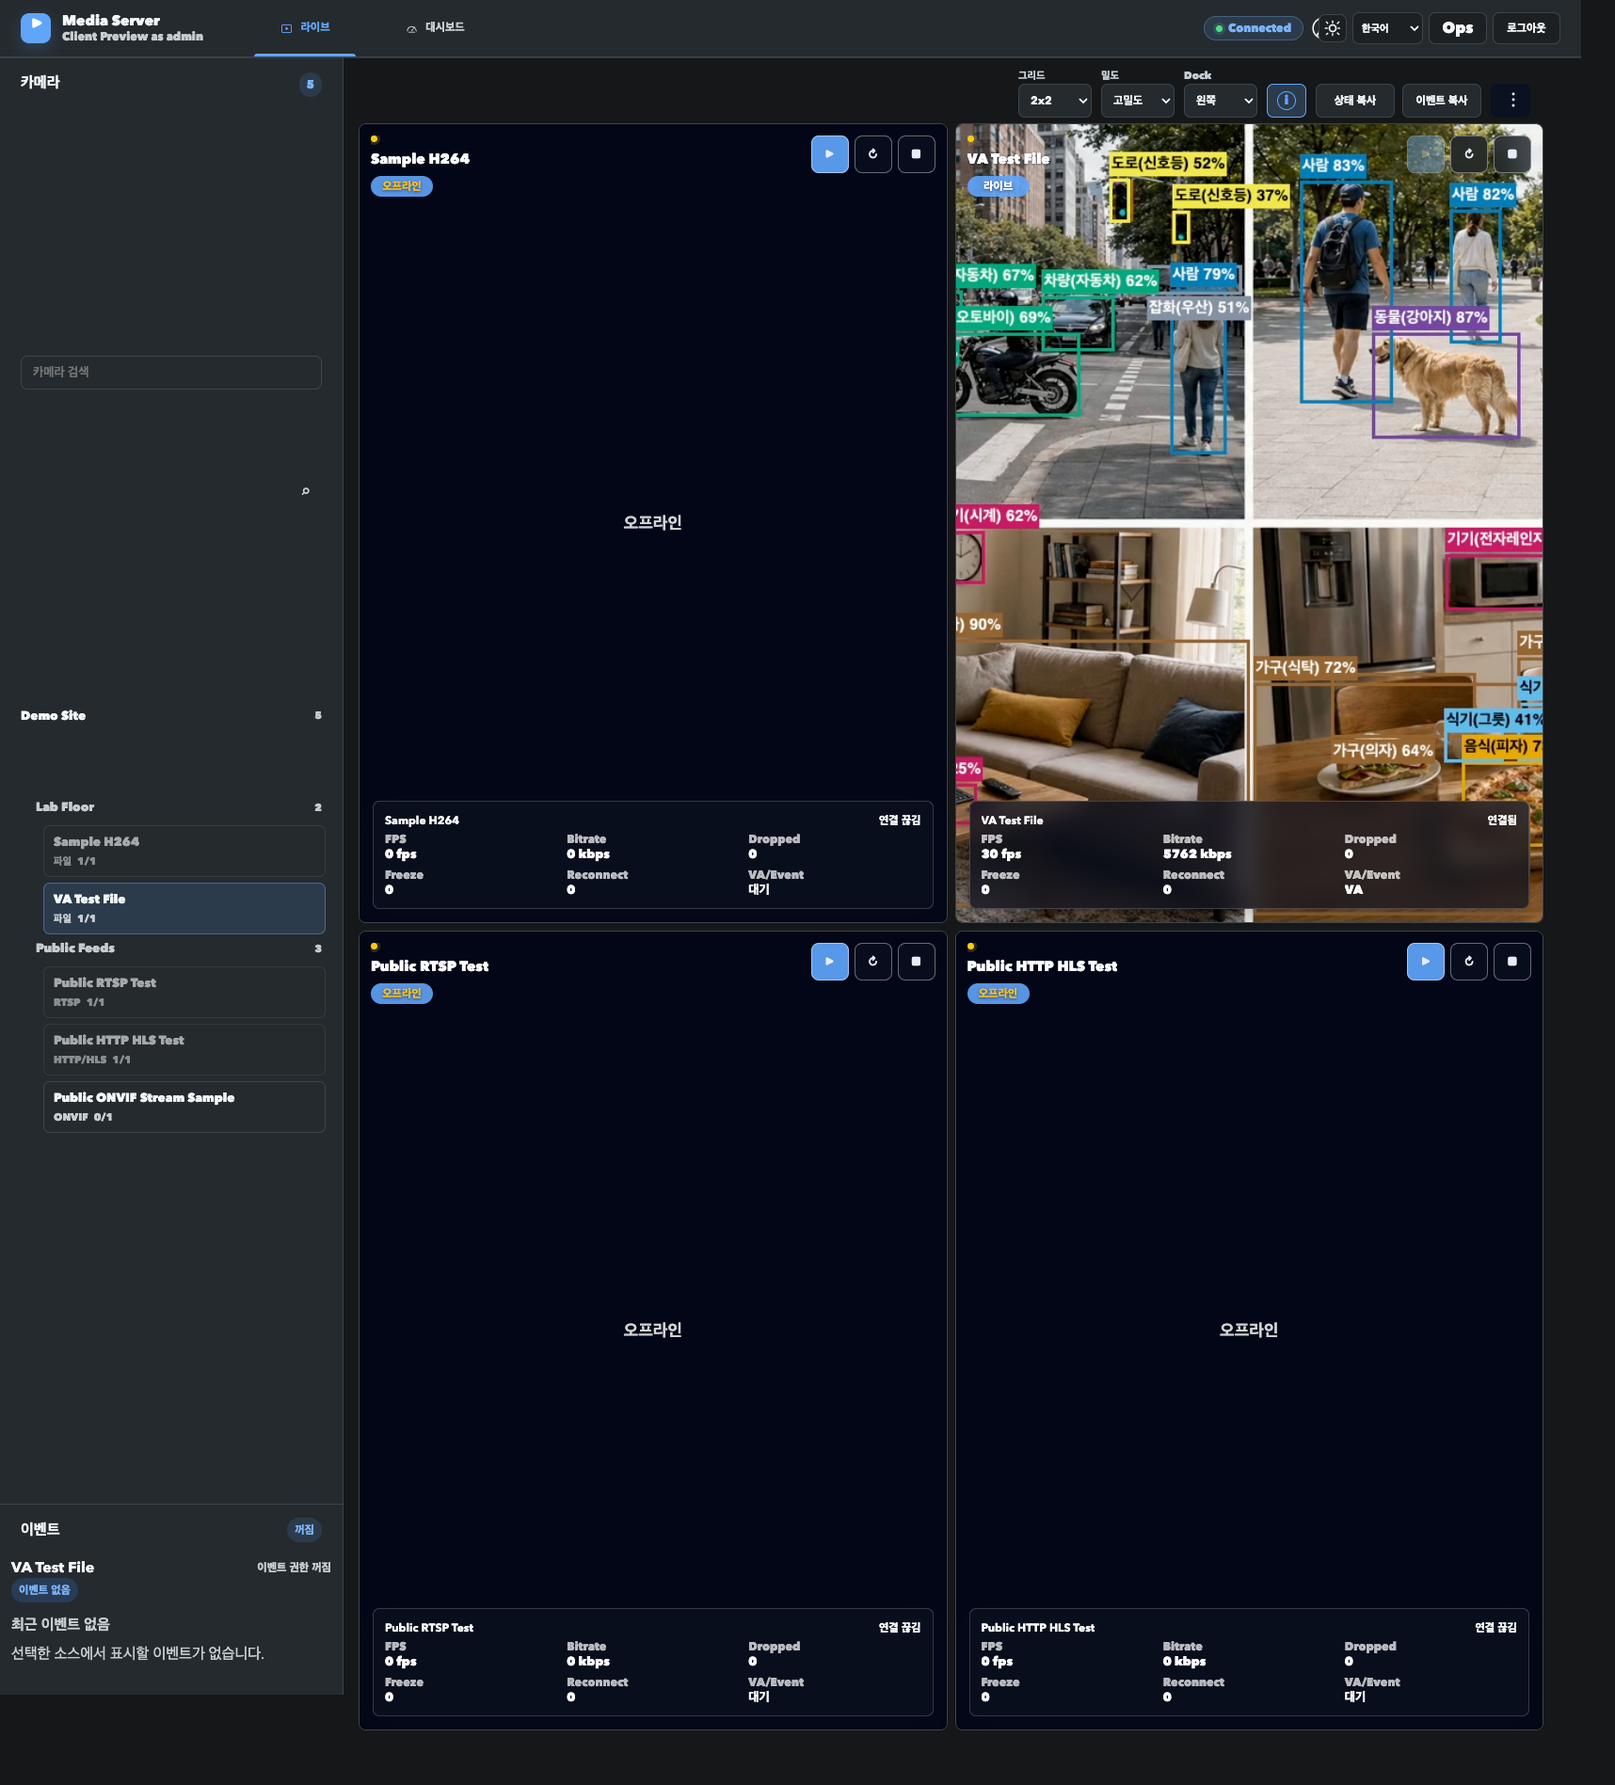
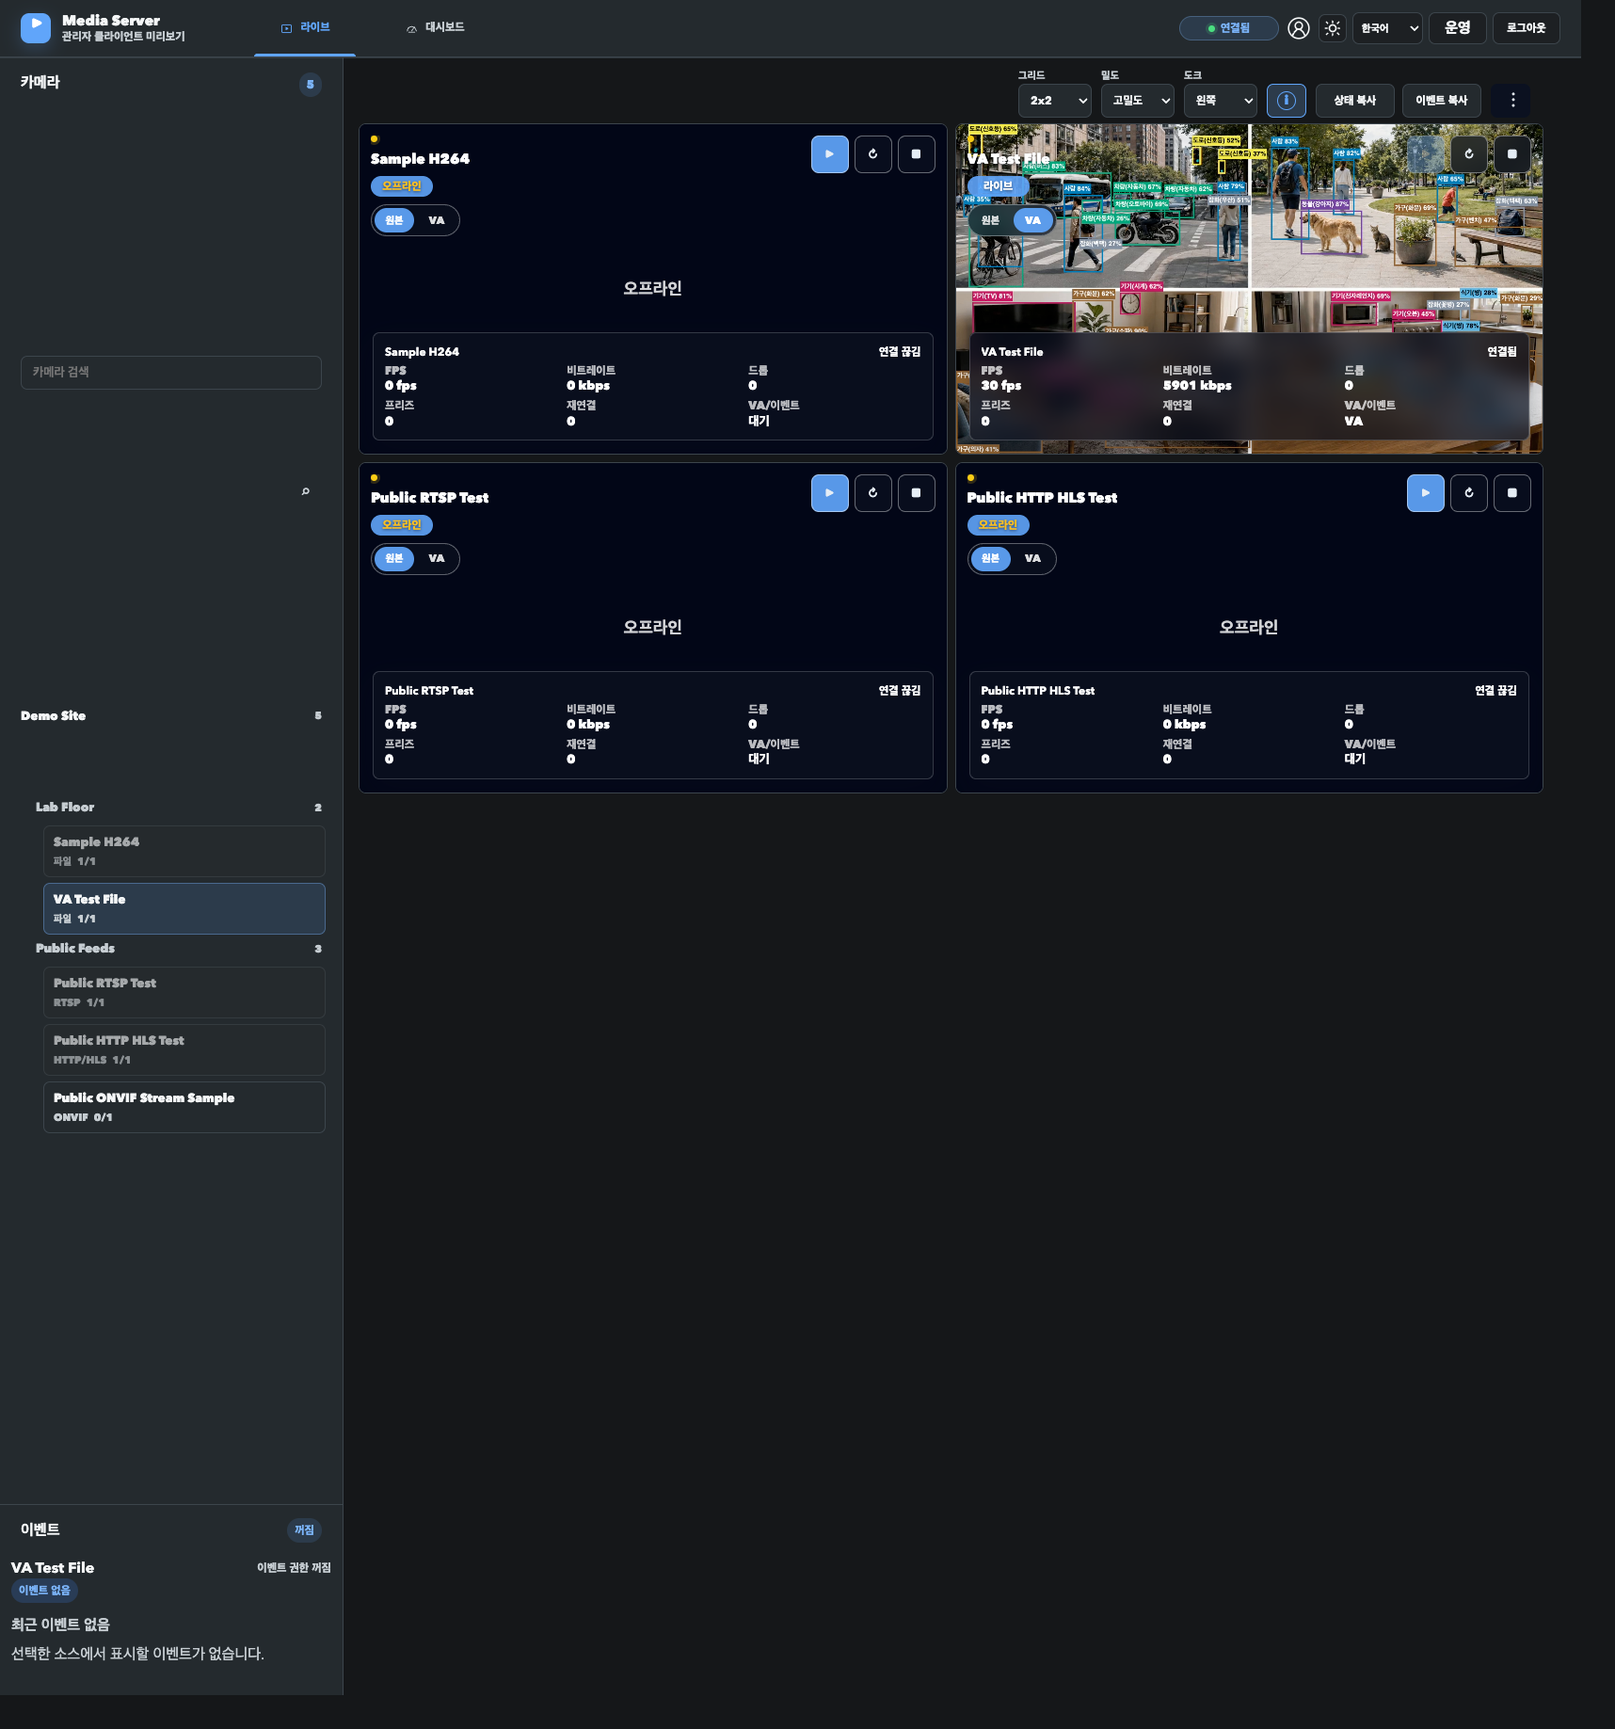
fix: tighten client live layout controls

diff --git a/src/ingress/product_ui_page_scripts.cpp b/src/ingress/product_ui_page_scripts.cpp
@@ -1214,6 +1214,33 @@ void AppendClientShellScript(std::ostringstream& out) {
         const wrap = root.querySelector('[data-role="mode-wrap"]');
         if (wrap) wrap.hidden = modes.length <= 1;
       }
+      const modeButtons = Array.from(root.querySelectorAll('[data-mode-action]'));
+      const buttonWrap = root.querySelector('[data-role="mode-buttons"]');
+      if (buttonWrap) buttonWrap.hidden = modes.length <= 1;
+      for (const button of modeButtons) {
+        const mode = normalizeOverlayMode(button.dataset.modeAction || '');
+        const available = modes.includes(mode);
+        button.hidden = !available;
+        button.disabled = !available;
+        button.setAttribute('aria-pressed', tile.overlayMode === mode ? 'true' : 'false');
+      }
+    }
+    async function setTileOverlayMode(index, mode) {
+      const tile = liveTiles[index];
+      const view = tileView(tile);
+      const nextMode = normalizeOverlayMode(mode);
+      if (!tile || !view || !nextMode) return;
+      const modes = allowedOverlayModes(view);
+      if (!modes.includes(nextMode) || tile.overlayMode === nextMode) return;
+      tile.overlayMode = nextMode;
+      markLivePreferenceDirty();
+      applyTileModeOptions(tile);
+      refreshSelectedTileDetail();
+      if (tile.sessionId) {
+        await restartLiveTile(index);
+      } else {
+        updateTileDom(tile);
+      }
     }
 	    function resetTileSignal(tile) {
 	      tile.trackCount = null;
@@ -1405,6 +1432,11 @@ void AppendClientShellScript(std::ostringstream& out) {
 	                <span class="tile-presence-dot" aria-hidden="true"></span>
 	                <h3 data-role="view-label">${escapeHtml(tileView(tile)?.displayName || tile.viewId || `타일 ${tile.index + 1}`)}</h3>
 	                <span class="chip" data-role="status">offline</span>
+	                <div class="tile-mode-controls" data-testid="client-live-va-overlay-toggle" data-role="mode-buttons" aria-label="타일 ${tile.index + 1} VA 오버레이" hidden>
+	                  <button type="button" class="tile-mode-button" data-mode-action="raw" aria-pressed="false" title="원본">원본</button>
+	                  <button type="button" class="tile-mode-button" data-mode-action="va-overlay" aria-pressed="false" title="VA 오버레이">VA</button>
+	                  <button type="button" class="tile-mode-button" data-mode-action="va-rule" aria-pressed="false" title="VA 룰">VA 룰</button>
+	                </div>
 	              </div>
 	              <div class="tile-actions" aria-label="타일 ${tile.index + 1} 작업">
 	                <button type="button" class="icon-button tile-action-primary" data-action="start" title="타일 ${tile.index + 1} 시작" aria-label="타일 ${tile.index + 1} 시작"><span aria-hidden="true">▶</span></button>
@@ -1430,11 +1462,11 @@ void AppendClientShellScript(std::ostringstream& out) {
 	              </div>
 	              <div class="tile-info-overlay-grid">
 	                <span>FPS <strong data-overlay="fps">미제공</strong></span>
-	                <span>Bitrate <strong data-overlay="bitrate">미제공</strong></span>
-	                <span>Dropped <strong data-overlay="dropped">미제공</strong></span>
-	                <span>Freeze <strong data-overlay="freeze">미제공</strong></span>
-	                <span>Reconnect <strong data-overlay="reconnect">0</strong></span>
-	                <span>VA/Event <strong data-overlay="badge">대기</strong></span>
+	                <span>비트레이트 <strong data-overlay="bitrate">미제공</strong></span>
+	                <span>드롭 <strong data-overlay="dropped">미제공</strong></span>
+	                <span>프리즈 <strong data-overlay="freeze">미제공</strong></span>
+	                <span>재연결 <strong data-overlay="reconnect">0</strong></span>
+	                <span>VA/이벤트 <strong data-overlay="badge">대기</strong></span>
 	              </div>
 	            </div>
 	          </div>
@@ -1457,7 +1489,7 @@ void AppendClientShellScript(std::ostringstream& out) {
 	            <section class="live-workspace-main live-sketch-workspace" aria-label="라이브 워크스페이스">
 	          <div class="live-toolbar live-sketch-toolbar">
 	            <div class="live-workspace-title">
-	              <h2>Live Workspace</h2>
+	              <h2>라이브 워크스페이스</h2>
 	            </div>
 	            <label>그리드
 	              <select id="liveGridSize">
@@ -1470,8 +1502,8 @@ void AppendClientShellScript(std::ostringstream& out) {
 	                <option value="compact"${liveDensity === 'compact' ? ' selected' : ''}>고밀도</option>
 	              </select>
 	            </label>
-	            <label>Dock
-	              <select id="liveDockSide" aria-label="소스 dock 위치">
+	            <label>도크
+	              <select id="liveDockSide" aria-label="소스 도크 위치">
 	                <option value="left"${liveDockSide === 'left' ? ' selected' : ''}>왼쪽</option>
 	                <option value="right"${liveDockSide === 'right' ? ' selected' : ''}>오른쪽</option>
 	              </select>
@@ -1522,12 +1554,24 @@ void AppendClientShellScript(std::ostringstream& out) {
 	      const modeSelect = root.querySelector('[data-role="mode"]');
 	      if (modeSelect) {
 	        modeSelect.addEventListener('change', () => {
-	          if (!tile.sessionId) {
-              tile.overlayMode = modeSelect.value;
-              markLivePreferenceDirty();
-            }
+	          setTileOverlayMode(tile.index, modeSelect.value).catch(error => {
+	            tile.status = 'error';
+	            tile.connectionStatus = error.message || 'error';
+	            tile.lastError = error.message || 'error';
+	            updateTileDom(tile);
+	          });
 	        });
 	      }
+	      root.querySelectorAll('[data-mode-action]').forEach(button => {
+	        button.addEventListener('click', () => {
+	          setTileOverlayMode(tile.index, button.dataset.modeAction || '').catch(error => {
+	            tile.status = 'error';
+	            tile.connectionStatus = error.message || 'error';
+	            tile.lastError = error.message || 'error';
+	            updateTileDom(tile);
+	          });
+	        });
+	      });
 	      root.querySelector('[data-action="start"]')?.addEventListener('click', () => startLiveTile(tile.index));
 	      root.querySelector('[data-action="restart"]')?.addEventListener('click', () => restartLiveTile(tile.index));
 	      root.querySelector('[data-action="stop"]')?.addEventListener('click', () => disconnectLiveTile(tile.index));
@@ -1956,6 +2000,8 @@ void AppendClientShellScript(std::ostringstream& out) {
         updateTileDom(tile);
         return;
       }
+      tile.overlayMode = mode;
+      applyTileModeOptions(tile);
       selectLiveTile(index);
       const startNonce = (tile.startNonce || 0) + 1;
       tile.startNonce = startNonce;

diff --git a/src/ingress/product_ui_css.cpp b/src/ingress/product_ui_css.cpp
@@ -2761,6 +2761,9 @@ std::string ProductUiCss() {
       body.client-shell .account-identity {
         display: flex;
       }
+      body.client-shell .sketch-status-chip {
+        display: none;
+      }
       body.client-shell .account-menu > form {
         width: auto;
       }
@@ -3161,7 +3164,7 @@ std::string ClientShellCss() {
       align-items: center;
     }
     body.client-shell .account-menu {
-      max-width: min(38vw, 390px);
+      max-width: min(42vw, 430px);
       min-height: 44px;
       display: grid;
       grid-template-columns: minmax(0, 1fr) auto;
@@ -3172,14 +3175,23 @@ std::string ClientShellCss() {
     }
     body.client-shell .account-identity {
       display: flex;
+      flex: 0 0 auto;
+    }
+    body.client-shell .account-copy {
+      display: none;
     }
     body.client-shell .language-control {
       min-width: 64px;
     }
     body.client-shell .account-menu-top {
       min-width: 0;
+      overflow: hidden;
       justify-content: flex-end;
       gap: 8px;
+    }
+    body.client-shell .account-controls {
+      flex: 0 0 auto;
+      flex-wrap: nowrap;
     }
     body.client-shell .account-menu > form > button {
       min-width: 52px;
@@ -3748,7 +3760,7 @@ std::string ClientShellCss() {
       display: none;
     }
     body.client-shell .account-menu {
-      max-width: min(34vw, 340px);
+      max-width: min(42vw, 430px);
       min-height: 44px;
       display: grid;
       grid-template-columns: minmax(0, 1fr) auto;
@@ -4127,10 +4139,12 @@ std::string ClientShellCss() {
     }
     body.client-shell .live-grid,
     body.client-shell .live-grid[data-grid-size] {
-      height: calc(100vh - 92px);
+      height: auto;
+      min-height: 0;
       display: grid;
       gap: 8px;
-      grid-auto-rows: minmax(0, 1fr);
+      grid-auto-rows: auto;
+      align-content: start;
     }
     body.client-shell .live-grid[data-grid-size="1"] {
       grid-template-columns: 1fr;
@@ -4140,7 +4154,7 @@ std::string ClientShellCss() {
     }
     body.client-shell .live-grid[data-grid-size="4"] {
       grid-template-columns: repeat(2, minmax(0, 1fr));
-      grid-template-rows: repeat(2, minmax(0, 1fr));
+      grid-template-rows: none;
     }
     body.client-shell .live-grid[data-grid-size="6"],
     body.client-shell .live-grid[data-grid-size="9"] {
@@ -4150,6 +4164,7 @@ std::string ClientShellCss() {
     body.client-shell .live-grid[data-density="compact"] .tile {
       position: relative;
       min-height: 0;
+      aspect-ratio: 16 / 9;
       display: block;
       padding: 0;
       border-radius: 8px;
@@ -4219,6 +4234,45 @@ std::string ClientShellCss() {
       text-overflow: ellipsis;
       white-space: nowrap;
     }
+    body.client-shell .tile-mode-controls {
+      max-width: 100%;
+      display: inline-flex;
+      flex-wrap: nowrap;
+      align-items: center;
+      gap: 3px;
+      padding: 3px;
+      border: 1px solid color-mix(in srgb, var(--overlay-label-text) 34%, transparent);
+      border-radius: 999px;
+      background: color-mix(in srgb, var(--color-code-bg) 64%, transparent);
+      backdrop-filter: blur(12px);
+      pointer-events: auto;
+    }
+    body.client-shell .tile-mode-controls[hidden],
+    body.client-shell .tile-mode-button[hidden] {
+      display: none;
+    }
+    body.client-shell .tile-mode-button {
+      min-width: 42px;
+      min-height: 26px;
+      padding: 3px 8px;
+      border: 0;
+      border-radius: 999px;
+      background: transparent;
+      color: color-mix(in srgb, var(--overlay-label-text) 86%, transparent);
+      font-size: 11px;
+      font-weight: 900;
+      line-height: 1;
+      white-space: nowrap;
+      box-shadow: none;
+    }
+    body.client-shell .tile-mode-button[aria-pressed="true"] {
+      background: color-mix(in srgb, var(--accent) 92%, transparent);
+      color: var(--overlay-label-text);
+    }
+    body.client-shell .tile-mode-button:focus-visible {
+      outline: 2px solid var(--overlay-label-text);
+      outline-offset: 2px;
+    }
     body.client-shell .tile-controls {
       display: none;
     }
@@ -4248,9 +4302,11 @@ std::string ClientShellCss() {
     }
     body.client-shell .tile-stage,
     body.client-shell .live-grid[data-density="compact"] .tile-stage {
-      width: 100%;
-      height: 100%;
-      min-height: 100%;
+      position: absolute;
+      inset: 0;
+      width: auto;
+      height: auto;
+      min-height: 0;
       aspect-ratio: auto;
       border-radius: 0;
       background:
@@ -4265,7 +4321,9 @@ std::string ClientShellCss() {
         var(--color-media-bg);
     }
     body.client-shell .tile-stage video {
-      object-fit: cover;
+      width: 100%;
+      height: 100%;
+      object-fit: contain;
       filter: none;
     }
     body.client-shell .tile-stage > span[data-role="placeholder"] {
@@ -4341,6 +4399,7 @@ std::string ClientShellCss() {
       body.client-shell .account-controls {
         flex-wrap: wrap;
         justify-content: flex-start;
+        overflow: visible;
       }
       body.client-shell .account-menu > form {
         justify-self: start;
@@ -4423,7 +4482,8 @@ std::string ClientShellCss() {
       }
       body.client-shell .tile,
       body.client-shell .live-grid[data-density="compact"] .tile {
-        min-height: 282px;
+        min-height: 0;
+        aspect-ratio: 16 / 9;
       }
       body.client-shell .client-workspace-shell:not(.live-workspace) {
         grid-template-columns: 1fr;
@@ -4458,6 +4518,10 @@ std::string ClientShellCss() {
         width: 44px;
         min-width: 44px;
         height: 44px;
+        min-height: 44px;
+      }
+      body.client-shell .tile-mode-button {
+        min-width: 48px;
         min-height: 44px;
       }
       body.client-shell .workspace-actions[open]::after {

diff --git a/src/ingress/product_ui_js.cpp b/src/ingress/product_ui_js.cpp
@@ -47,11 +47,13 @@ std::string ProductSharedUiScript() {
         '라이트 모드로 전환': 'Switch to light mode',
         '현재 계정': 'Current account',
         '홈': 'Home',
+        '운영': 'Ops',
         '대시보드': 'Dashboard',
         '채널': 'Channels',
         '룰': 'Rules',
         '사용자': 'Users',
         '클라이언트': 'Client',
+        '관리자 클라이언트 미리보기': 'Client Preview as admin',
         '미리보기': 'Client Preview',
         '라이브': 'Live',
         '운영 메뉴': 'Ops menu',
@@ -573,7 +575,12 @@ std::string ProductSharedUiScript() {
         '고밀도': 'Compact',
         '그리드': 'Grid',
         '밀도': 'Density',
-        'Dock': 'Dock',
+        '도크': 'Dock',
+        '소스 도크 위치': 'Source dock position',
+        '비트레이트': 'Bitrate',
+        '드롭': 'Dropped',
+        '프리즈': 'Freeze',
+        'VA/이벤트': 'VA/Event',
         '정보 오버레이 숨김': 'Hide info overlay',
         '정보 오버레이 표시': 'Show info overlay',
         '워크스페이스 작업': 'Workspace actions',
@@ -679,7 +686,7 @@ std::string ProductSharedUiScript() {
           [/^view 누락\s+(\d+)$/u, (_match, count) => `Missing views ${count}`],
           [/^입력 미완성\s+(\d+)$/u, (_match, count) => `Incomplete inputs ${count}`],
           [/^타일\s+(\d+):\s+(.+)$/u, (_match, count, detail) => `Tile ${count}: ${koToEn.get(detail.trim()) || translatePattern(detail.trim())}`],
-          [/^타일\s+(\d+)\s+(시작|재연결|정지|연결 해제|채널 선택|채널|보기 방식)$/u, (_match, count, action) => `Tile ${count} ${koToEn.get(action) || action}`],
+          [/^타일\s+(\d+)\s+(시작|재연결|정지|연결 해제|채널 선택|채널|보기 방식|VA 오버레이|VA 룰)$/u, (_match, count, action) => `Tile ${count} ${koToEn.get(action) || action}`],
           [/^타일\s+(\d+)\s+·\s+(.+)$/u, (_match, count, mode) => `Tile ${count} · ${koToEn.get(mode) || mode}`],
           [/^(\d+)개 범위\s+([\s\S]+)$/u, (_match, count, detail) => `${count} scopes\n${koToEn.get(detail.trim()) || detail}`],
           [/^(\d+)개 범위$/u, (_match, count) => `${count} scopes`],

diff --git a/src/ingress/webrtc_http_server.cpp b/src/ingress/webrtc_http_server.cpp
@@ -2084,7 +2084,7 @@ void AppendProductAccountMenu(std::ostringstream& out,
                              const std::string& secondary_action_label = std::string()) {
     out << R"(        <div class="account-menu" data-sketch-account-menu="true" aria-label="현재 계정">
           <div class="account-menu-top">
-            <span class="sketch-status-chip" aria-label="연결 상태"><span aria-hidden="true"></span>Connected</span>
+            <span class="sketch-status-chip" aria-label="연결 상태"><span aria-hidden="true"></span>연결됨</span>
             <div class="account-identity">
               )" << ProductAccountAvatarSvg() << R"(
               <div class="account-copy">
@@ -4153,7 +4153,7 @@ std::string ClientShellPageHtml(const auth::Principal& principal, const std::str
     const bool preview_mode =
         (auth::IsAdmin(principal) || auth::IsOperator(principal)) &&
         auth::RequireScope(principal, "ops:read");
-    const std::string client_subtitle = preview_mode ? "Client Preview as admin" : "Client";
+    const std::string client_subtitle = preview_mode ? "관리자 클라이언트 미리보기" : "클라이언트";
     std::ostringstream out;
     out << R"(<!doctype html>
 <html lang="ko">
@@ -4185,7 +4185,7 @@ std::string ClientShellPageHtml(const auth::Principal& principal, const std::str
     AppendProductAccountMenu(out,
                              principal,
                              preview_mode ? "/ops/home" : std::string(),
-                             preview_mode ? "Ops" : std::string());
+                             preview_mode ? "운영" : std::string());
     out << R"(      </div>
     </header>
 )";
